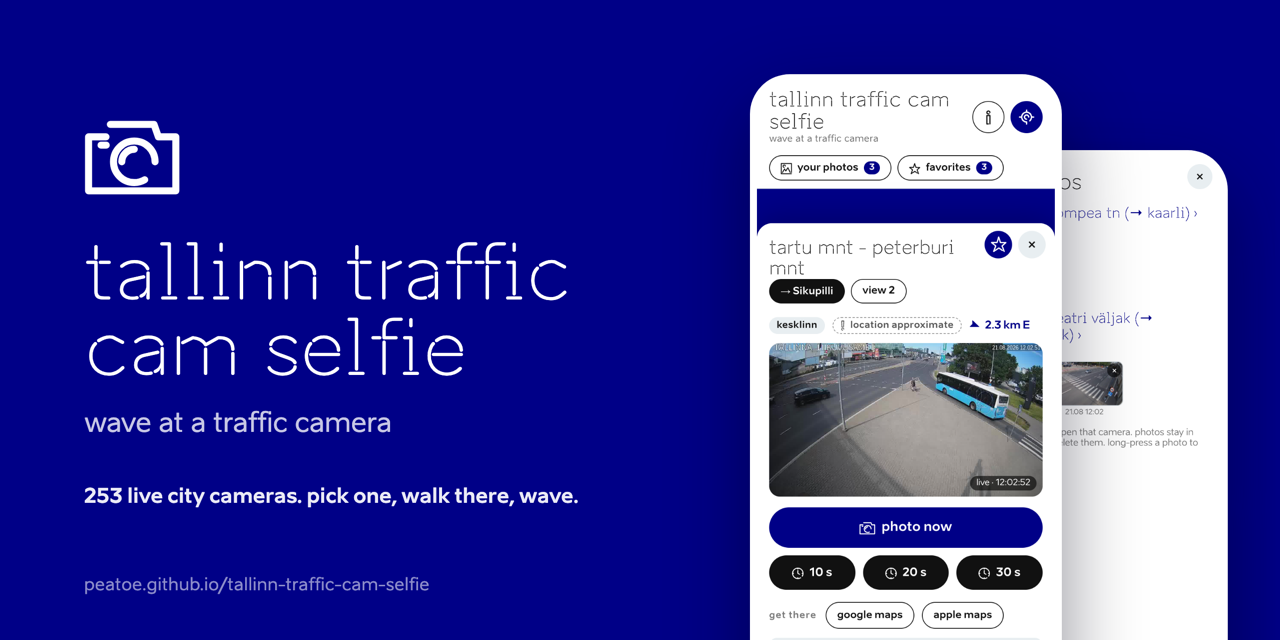
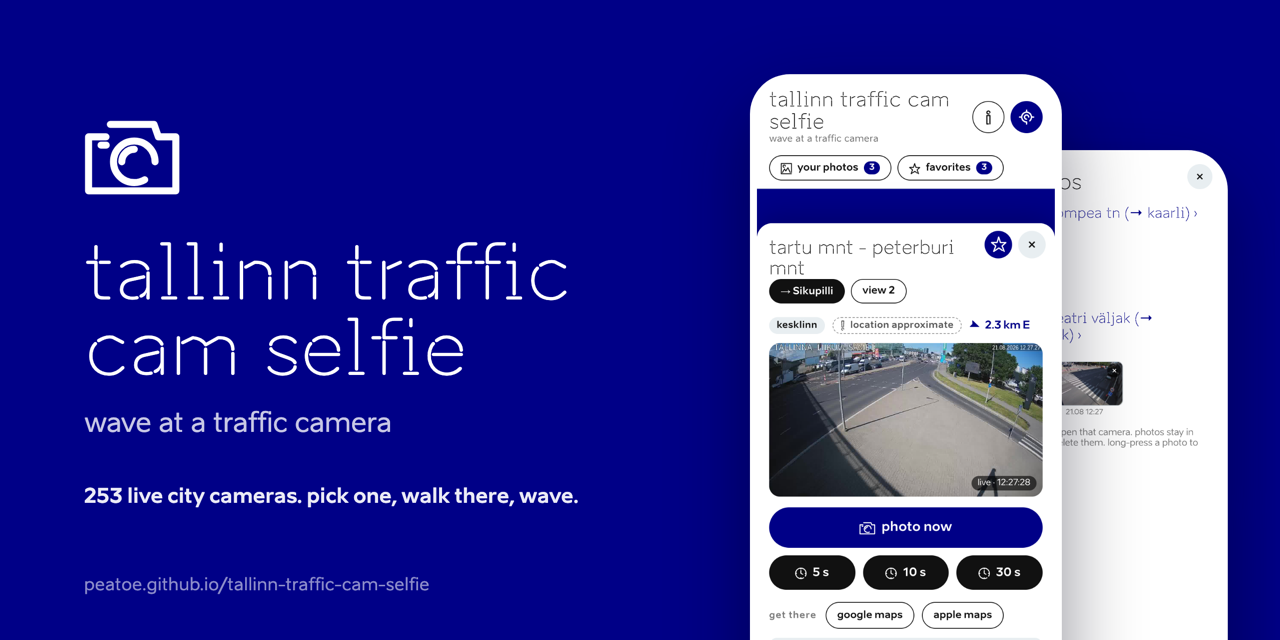
feat: update timers and bug fix

diff --git a/app/app.js b/app/app.js
@@ -15,7 +15,7 @@ const state = {
   sel: null, selSpot: null,
   user: null, userMarker: null, accCircle: null, line: null,
   watching: false, watchId: null,
-  previewTimer: null, wakeLock: null, lastCount: 10,
+  previewTimer: null, wakeLock: null, lastCapture: "now",
 };
 
 /* ---------- helpers ---------- */
@@ -535,6 +535,7 @@ function grabFrame(cam, label) {
 
 async function photoNow() {
   if (!state.sel) return;
+  state.lastCapture = "now";
   const cam = state.sel;
   toast("grabbing the frame…", 1500);
   const frame = await grabFrame(cam, "now");
@@ -572,7 +573,7 @@ let countdownAbort = null;
 async function countdownPhoto(seconds) {
   if (!state.sel) return;
   const cam = state.sel;
-  state.lastCount = seconds;
+  state.lastCapture = seconds;
   const overlay = $("countdown"), num = $("countdown-num");
   $("countdown-cam").textContent = shortName(cam);
   overlay.classList.remove("flash");
@@ -737,7 +738,11 @@ $("countdown-cancel").onclick = () => {
 };
 $("result-close").onclick = () => closeResult(true);
 $("btn-done").onclick = () => closeResult(true);
-$("btn-again").onclick = () => { $("result").hidden = true; countdownPhoto(state.lastCount); };
+$("btn-again").onclick = () => {
+  $("result").hidden = true;
+  if (state.lastCapture === "now") photoNow();
+  else countdownPhoto(state.lastCapture);
+};
 
 $("btn-fav").onclick = () => {
   if (!state.sel) return;

diff --git a/app/index.html b/app/index.html
@@ -86,8 +86,8 @@
     <button class="btn btn-primary" id="btn-shot">
       <svg class="ico" width="21" height="21" aria-hidden="true"><use href="#i-camera"/></svg> photo now
     </button>
+    <button class="btn btn-dark" data-count="5"><svg class="ico" width="15" height="15" aria-hidden="true"><use href="#i-clock"/></svg> 5 s</button>
     <button class="btn btn-dark" data-count="10"><svg class="ico" width="15" height="15" aria-hidden="true"><use href="#i-clock"/></svg> 10 s</button>
-    <button class="btn btn-dark" data-count="20"><svg class="ico" width="15" height="15" aria-hidden="true"><use href="#i-clock"/></svg> 20 s</button>
     <button class="btn btn-dark" data-count="30"><svg class="ico" width="15" height="15" aria-hidden="true"><use href="#i-clock"/></svg> 30 s</button>
   </div>
 

diff --git a/README.md b/README.md
@@ -43,7 +43,7 @@ Useful URL params: `?at=59.449,24.735` fakes your location (desktop testing),
   one junction has several cameras. Cameras with `"approx": true` coordinates
   show a "location approximate" badge and a note next to directions.
 - **photo now**: grabs the current frame.
-- **Countdown photo** (10/20/30 s): fullscreen countdown with huge digits
+- **Countdown photo** (5/10/30 s): fullscreen countdown with huge digits
   readable from across the street, beeps, screen wake-lock, then a "smile!"
   flash and a 3-frame burst (at zero / +4 s / +8 s) since the cameras refresh
   every few seconds.
